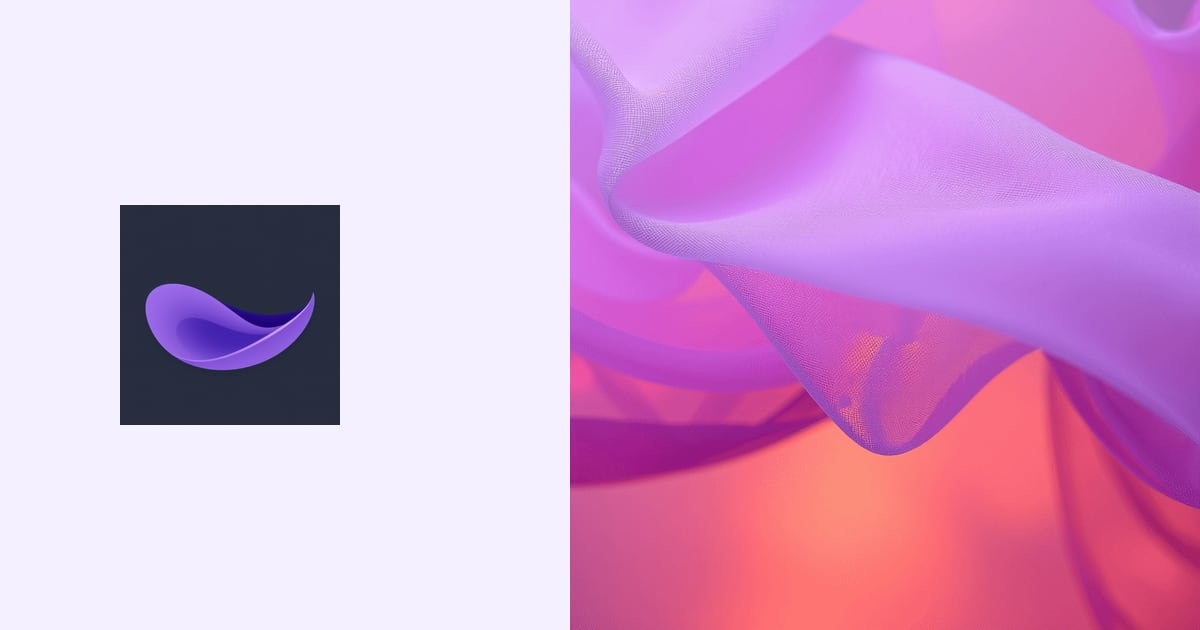
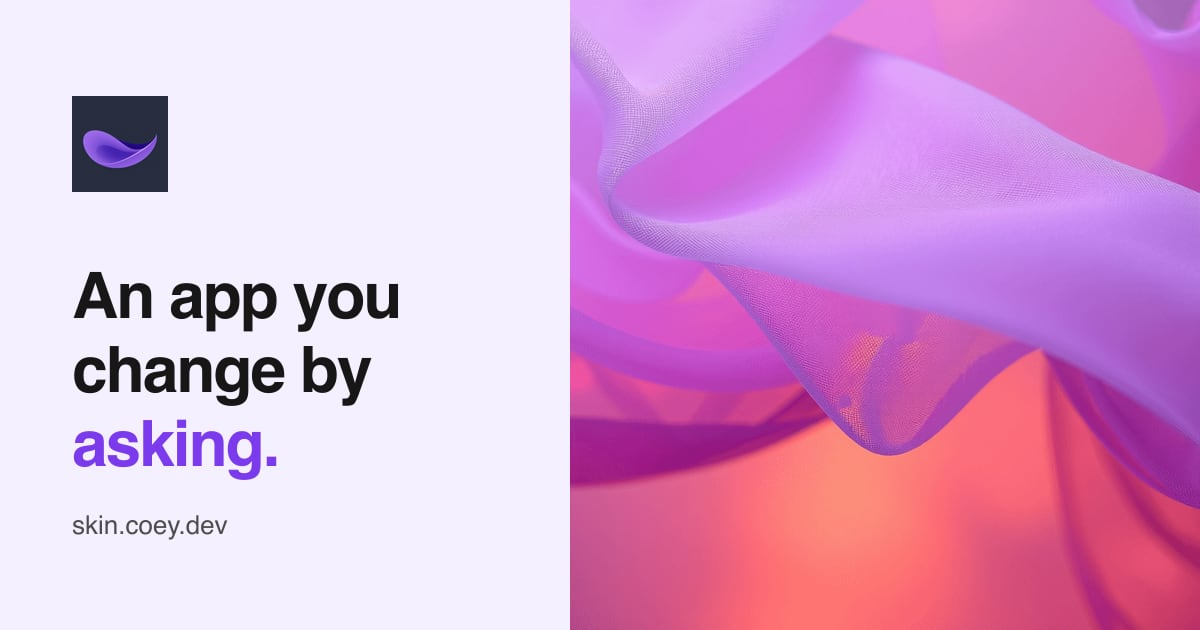
Ready to share: README rewritten; OG card with headline; landing copy reflects per-person routing (Workers AI or your own AI Gateway); one description everywhere

Changed region(s): [[0.0617, 0.1508, 0.3392, 0.7841], [0.0617, 0.8143, 0.185, 0.8444]]

diff --git a/kernel/auth/sign-in-page.ts b/kernel/auth/sign-in-page.ts
@@ -1,5 +1,5 @@
 import { Option } from "effect";
-import { PWA_HEAD, socialHead } from "../pwa";
+import { APP_DESCRIPTION, PWA_HEAD, socialHead } from "../pwa";
 
 const escapeHtml = (value: string) =>
   value
@@ -21,13 +21,13 @@ const POINTS: ReadonlyArray<Point> = [
   },
   {
     title: "Your inference, your account",
-    body: "Every model call runs on Workers AI in the Cloudflare account you pick, under your limits and your logs.",
+    body: "Every model call runs on the Cloudflare account you pick, through Workers AI or one of your own AI Gateways. skin never pays for your tokens, and never sees a provider key.",
   },
 ];
 
 const STEPS: ReadonlyArray<string> = [
   "Pick an account on Cloudflare&rsquo;s consent screen.",
-  "skin runs its agent on that account&rsquo;s Workers AI.",
+  "Choose a model: Workers AI, or Claude and GPT through your own AI Gateway.",
   "Your app and your chats stay yours. Sign out revokes access.",
 ];
 
@@ -41,7 +41,7 @@ export const signInPage = (
 <meta name="viewport" content="width=device-width, initial-scale=1">
 <meta name="color-scheme" content="light dark">
 <title>skin · an app you change by asking</title>
-<meta name="description" content="skin is a personal app with an agent inside. Ask for a change and it rewrites itself, and only goes live if it works.">
+<meta name="description" content="${APP_DESCRIPTION}">
 <meta name="robots" content="index, follow">
 ${socialHead(origin)}
 ${PWA_HEAD}

diff --git a/README.md b/README.md
@@ -2,57 +2,79 @@
 
 # skin
 
-**A web app that every person who signs in grows into their own: each account gets its own agent, which rewrites that person's copy of the app while they use it, and can't brick it. A reference for [Pi Durable](https://github.com/earendil-works/pi/tree/main/packages/durable), [Worker Loader](https://developers.cloudflare.com/workers/runtime-apis/bindings/worker-loader/), [Effect v4](https://effect.website), and [Foldkit](https://foldkit.dev) on Cloudflare.**
+**An app you change by asking.** Sign in with Cloudflare and you get your own copy of a web app with an agent inside. Ask for a change in plain words and the agent rewrites the app while you use it: the UI, the server, even the chat you're typing into. A new version only goes live if it builds, boots, and passes its checks. If it still breaks in your browser, it rolls back on its own.
 
-Self-modifying agents like [bb](https://getbb.app) and [Ouroboros](https://github.com/razzant/ouroboros) evolve one repository on one machine: the tool itself. skin evolves per person. It is a web app behind a login; anyone with a Cloudflare account signs in and gets their own body and their own agent, and every change that agent makes lands only in that person's app. Everyone starts from the same seed and grows apart.
+Try it at [skin.coey.dev](https://skin.coey.dev). It installs as an app on iOS, Android, and desktop.
 
-Self-modifying tools let an agent change the app you are working in. The catch is the failure mode: one bad change and the tool you need to fix it is the thing that's broken. skin splits itself in two. A small **kernel**, deployed once, holds the agent, the generations, and the gate. Everything else, the **body**, is source the agent edits at runtime: the Foldkit UI (including the chat you talk to it through), the server, the styles, and the checks. A change goes live only after the kernel builds it into a new generation inside Cloudflare and it passes the gate. If a generation still crashes in your browser, the kernel rolls it back on its own.
+<img src="kernel/assets/og.jpg" alt="skin: an app you change by asking">
 
-Skin is the part of you that is yours alone, that you can change, and that grows back. Here it is the whole app, not just its look: your agent rewrites the UI, the server, and the chat itself.
+## Why it can't brick itself
+
+An agent that edits the tool you're using has an obvious failure mode: one bad change, and the thing you need to fix it is the thing that's broken. skin splits in two.
+
+- **The kernel** is deployed once and never changes at runtime. It holds sign-in, the agent, every version, the gate, and rollback.
+- **The body** is everything else: the [Foldkit](https://foldkit.dev) UI, the server, the Tailwind styles, and the body's own checks. This is the source the agent edits.
+
+The agent can rewrite the body as much as it likes. It can't touch the kernel, so there is always a working way back.
 
 ## What happens when you ask for a change
 
 ```
-you ─▶ chat (part of the body) ─▶ Agent DO (Pi Durable) ─▶ write_file / ship
-                                                              │
-                     Body DO: draft ─▶ Builder DO: worker-bundler + Tailwind ─▶ generation N
-                                                              │
-               gate: bundle ▸ boot the server in a Worker Loader isolate ▸ run src/checks.ts ▸ page
-                                                              │
-                        pass ─▶ N is live (one pointer)      fail ─▶ rejected, N-1 stays live
-                                                              │
-               browser: crash guard ─▶ started? boots += 1 : crashed before start ─▶ roll back to N-1
+you ─▶ chat ─▶ agent (Pi Durable) ─▶ write_file … ship
+                                          │
+                 draft ─▶ build: bundle server + client, compile Tailwind ─▶ version N
+                                          │
+           gate: boot the server in its own isolate ▸ run the body's checks ▸ render the page
+                                          │
+                pass ─▶ N is live          fail ─▶ N is rejected, N-1 stays live
+                                          │
+           in your browser: N crashes before it starts ─▶ the kernel puts N-1 back
 ```
 
-1. The agent edits the **draft**: files in the Body Durable Object's SQLite, content-addressed. Nothing is live yet.
-2. `ship` freezes the draft as generation N and hands it to a Builder Durable Object, which installs `package.json` from npm and bundles the server and client with [`@cloudflare/worker-bundler`](https://www.npmjs.com/package/@cloudflare/worker-bundler) (esbuild-wasm), then compiles Tailwind v4 in the isolate.
-3. The gate loads N's server into its own Worker Loader isolate (no network, no secrets, only `env.STORE`), calls `/_body/health`, and runs the body's own checks at `/_body/checks`. These are the same Foldkit story tests CI runs.
-4. If every check passes, N goes live by moving one pointer. If any fails, N is rejected and the agent gets the errors.
-5. Every page carries a kernel-owned crash guard. If N renders, it reports a boot. If N crashes before it ever started, the kernel makes the last good generation live again.
+1. The agent edits a draft. Nothing is live yet.
+2. `ship` freezes the draft as version N. Builder Durable Objects install its `package.json` from npm, bundle the server and the client with [`@cloudflare/worker-bundler`](https://www.npmjs.com/package/@cloudflare/worker-bundler), and compile Tailwind v4. Each half builds in its own isolate.
+3. The gate loads N's server into a [Worker Loader](https://developers.cloudflare.com/workers/runtime-apis/bindings/worker-loader/) isolate with no network and no secrets, checks it starts, and runs the body's own story tests.
+4. If everything passes, N goes live by moving one pointer. If anything fails, N is rejected and the agent gets the errors to fix.
+5. Every page carries a crash guard. If N crashes in your browser before it ever started, the kernel makes the last good version live again.
 
-Rollback to any generation that passed the gate is instant, from the chat, the kernel console at `/_kernel/`, or the agent. It also resets the draft to match. Data the server keeps in `env.STORE` survives every generation and every rollback.
+Any version that passed the gate is one click away, from the chat, the Versions panel, or the agent. Data the app stores survives every version and every rollback. The agent survives being killed mid-task: each model turn and tool result is committed before the next one, and shipping the same files twice returns the first result instead of a second version.
 
-The agent survives being killed. Pi Durable commits each model turn and tool result to SQLite, and every tool, `ship` included, is safe to replay: shipping the same files again returns the earlier result instead of a second generation.
+## Who pays for the model
+
+The person signed in, always. In **Model settings** you pick one of the Cloudflare accounts you allowed, then a route:
+
+- **Workers AI**, on that account, with your token.
+- **One of your own AI Gateways** (authentication on), with your token. Use this for Claude and GPT.
+
+Before each call skin strips any credential headers, then adds your token for the account you chose. The Worker has no AI binding and no gateway of its own, so it cannot run a model on the deployer's bill, and it never holds a provider key. A chat with nobody signed in makes no model call.
 
 ## Proof
 
-`npm run e2e` drives a real instance through eight changes, good and broken, in a real browser, and writes `receipts/e2e-<target>.json`. Against `wrangler dev` (receipt `receipts/e2e-local.json`):
+`npm run e2e` drives a real instance through ten changes, good and broken, in a real browser, and writes a receipt to `receipts/`. The latest local run:
 
 ```
-pass  the seed grows into a live generation that starts in a real browser (23575 ms)
-pass  a change that does not bundle is rejected and the live app is untouched (84 ms)
-pass  a server that throws when it starts is rejected (14133 ms)
-pass  a change that breaks a behavior the checks cover is rejected (14230 ms)
-pass  data the server stores survives a new generation and a rollback (10 ms)
-pass  a good change goes live and renders in the browser (20510 ms)
-pass  a page that crashes in the browser is rolled back by the kernel on its own (14517 ms)
-pass  rolling back makes the seed live again and resets the draft to match (38 ms)
-pass  another person gets their own app, untouched by everything above (14029 ms)
+pass  the seed grows into a live generation that starts in a real browser
+pass  a change that does not bundle is rejected and the live app is untouched
+pass  a server that throws when it starts is rejected
+pass  a change that breaks a behavior the checks cover is rejected
+pass  data the server stores survives a new generation and a rollback
+pass  a version interrupted mid-build by a kill never sticks, and shipping again makes it live
+pass  a good change goes live and renders in the browser
+pass  a page that crashes in the browser is rolled back by the kernel on its own
+pass  rolling back makes the seed live again and resets the draft to match
+pass  another person gets their own app, untouched by everything above
 
-9/9 scenarios passed in 100 s
+10/10 passed in 141 s
 ```
 
-`npm run check` also runs the agent itself, with Pi's fake model, inside workerd: it is killed three times with `ctx.abort()` while it works, comes back each time, and ships exactly one generation ([`test/revival/`](test/revival)).
+Every deploy runs `scripts/prod-smoke.mjs` against production and rolls the Worker back if any step fails. It checks four things:
+
+- a new visitor can start sign-in;
+- an anonymous caller is refused;
+- a fresh build goes live;
+- a real chat reply comes back from the signed-in person's own account.
+
+`npm run check` adds type checks, lint, and 64 tests, one of which kills the agent three times inside workerd and checks it comes back and ships exactly once. `npm run audit:pwa` checks the install assets and SEO basics against a live URL. Chat is held to [Basic](https://github.com/acoyfellow/basic), the conformance suite for agent chat.
 
 ## Run it locally
 
@@ -60,57 +82,46 @@ You need Node 22.19 or newer.
 
 ```sh
 npm install
-npx playwright install chromium   # for the e2e run
-bash test/local/run.sh            # http://localhost:8790, loopback dev identity, no model calls
+npx playwright install chromium
+bash test/local/run.sh                # http://localhost:8790
 BASE=http://localhost:8790 npm run e2e
 ```
 
-`test/local/wrangler.jsonc` is the real kernel with a loopback-only dev identity (`X-Dev-User`), so everything but the chat works offline. The dev identity has no Cloudflare account, so chat answers "Sign in with Cloudflare first". The first request grows generation 1 from the seed (about 20 s).
+The local kernel uses a loopback-only dev identity, so building, the gate, and rollback all work offline. Chat needs a Cloudflare sign-in, so it answers "Sign in with Cloudflare first". The first page load grows version 1 from the seed in about 20 seconds.
 
-## Deploy
+## Deploy your own
 
-skin has one sign-in: Sign in with Cloudflare. Each person signs in on Cloudflare's consent screen and picks the accounts skin may use. **The signed-in person always pays for their own model calls.** In `/settings` they pick one of those accounts, a route, and a model:
+You need a Cloudflare account with Worker Loader enabled and a hostname on a zone you control. There is no `workers.dev` or preview URL.
 
-- **Workers AI, direct**: `api.cloudflare.com/client/v4/accounts/<their account>/ai/v1`, sent with `Authorization: Bearer <their token>`.
-- **One of their own AI Gateways** (authentication on): `gateway.ai.cloudflare.com/v1/<their account>/<their gateway>/<anthropic|openai|compat>`, sent with `cf-aig-authorization: Bearer <their token>`. This route is needed for Claude and GPT.
+1. Create an OAuth client in the dashboard (Manage Account → OAuth clients): response type `code`, grants `authorization_code` and `refresh_token`, redirect URI `https://<host>/oauth/callback`, scopes `offline_access user-details.read account-settings.read ai.read ai.write aig.read aig.run`.
+2. Copy `deploy/coey.env` and set `SKIN_HOST`, `OAUTH_CLIENT_ID`, and `SKIN_ZONE` if the zone has no custom-domain slots left.
+3. Set two Worker secrets, `OAUTH_CLIENT_SECRET` and `SESSION_SECRET` (32 characters or more), with `npx wrangler secret put`.
+4. Run `set -a; . deploy/<yours>.env; set +a; npm run deploy`.
 
-Every call strips `authorization`, `cf-aig-authorization` and `x-api-key`, then adds that person's token. The token is refreshed when it is close to expiring. The Worker has no AI binding and no gateway of its own, so it cannot run a model on the deployer's account. A conversation with no signed-in owner gets "Sign in with Cloudflare first" and no model call is made.
+Deploys need a signed-in session cookie for the smoke test, in `SMOKE_SESSION` or `.debug/session.txt`. Pass `--skip-smoke` to deploy without it.
 
-There is no `workers.dev` or preview URL. Worker Loader must be enabled on the account.
+## What it does not do
 
-1. Create an OAuth client: response type `code`, grant types `authorization_code` and `refresh_token`, redirect URI `https://<host>/oauth/callback`, scopes `offline_access user-details.read account-settings.read ai.read ai.write aig.read aig.run`.
-2. Fill in `deploy/coey.env` (or your own copy) with `SKIN_HOST`, `OAUTH_CLIENT_ID`, and `SKIN_ZONE` if the zone has no custom-domain slots left.
-3. Set the two Worker secrets: `npx wrangler secret put OAUTH_CLIENT_SECRET` and `npx wrangler secret put SESSION_SECRET` (32 characters or more).
-4. Deploy: `set -a; . deploy/coey.env; set +a; npm run deploy`. The deploy runs `scripts/prod-smoke.mjs` against the new version and rolls back if it fails.
+- **The agent can't change the kernel.** Sign-in, the gate, rollback, the crash guard, and the service worker are fixed at deploy. The body's copy of the kernel protocol is replaced on every build.
+- **Versions aren't type-checked.** The gate is bundle, boot, checks, and page. A type error that still runs gets through.
+- **Crashes after start aren't rolled back automatically.** A version that started once and breaks later shows a banner and stays live until you or the agent roll back.
+- **Body code has no network and no secrets.** Versions run with `globalOutbound: null`. The only binding is a key-value store.
+- **Apps aren't shared.** Each person has their own app, agent, versions, and data. There's no way yet to fork someone else's.
+- **Model usage isn't capped by skin.** Builds are limited to one at a time and 30 an hour per person. Model usage is limited only by your own account.
 
-The smoke test runs headless with a signed-in session cookie (`SMOKE_SESSION`, or `.debug/session.txt`). It checks that an anonymous caller is refused, that a fresh build goes live, that a model call goes to the signed-in person's own account, and that a real chat reply comes back.
-
-Chat in every instance is held to [Basic](https://github.com/acoyfellow/basic), the conformance suite for agent chat. Run `BASE=https://<host> npm run basic` to check the floor.
-
-## What it deliberately does not do
-
-- **It does not let the agent change the kernel.** Sign-in, the gate, rollback, the crash guard, the service worker, and the console are fixed at deploy. `src/kernel/protocol.ts` in the body is replaced on every build, so the agent cannot break the contract with the kernel.
-- **It does not typecheck generations.** esbuild strips types; the gate is bundle, boot, checks, and page. A type error that still runs gets through.
-- **It does not roll back crashes after start.** A generation that started once and crashes later is reported to the guard and shown in a banner, but stays live until you or the agent roll back.
-- **It does not give body code the network or any secret.** Generations run with `globalOutbound: null`. The only binding is `STORE`.
-- **It does not share generations between people.** Each signed-in identity has its own Body, agents, generations, and `STORE`, keyed by a hash of the Cloudflare user id. Nothing crosses between them; there is no way yet to fork someone else's app.
-- **It does not meter the model per person.** Builds are limited per person (one at a time, 30 an hour); Workers AI usage is not yet.
-
-## Where to edit behavior
+## Where things live
 
 | Path | What it does |
 | --- | --- |
-| `kernel/body.ts` | The Body DO: draft, generations, the gate, promote, rollback, crash reports, serving |
-| `kernel/build.ts` | How a generation is built: bundle, Tailwind, the page the kernel wraps around it |
-| `kernel/harness.ts` | The agent's prompt and tools, on Pi Durable |
-| `kernel/shell.ts` | The crash guard, service worker, manifest, and kernel console |
-| `kernel/index.ts`, `kernel/auth/` | Sign in with Cloudflare, per-user model routing, routes, the owner API under `/_kernel/api/` |
-| `body/` | The seed: the first generation. After that, the agent owns it. `body/AGENTS.md` is its guide |
+| `kernel/body.ts` | Drafts, versions, the gate, rollback, crash reports, serving |
+| `kernel/build.ts`, `kernel/builder.ts` | Building a version: bundle, Tailwind, the page around it |
+| `kernel/harness.ts` | The agent's prompt and tools, on [Pi Durable](https://github.com/earendil-works/pi/tree/main/packages/durable) |
+| `kernel/auth/` | Sign in with Cloudflare, model settings, per-person model routing |
+| `kernel/pwa.ts`, `kernel/shell.ts` | Install assets, SEO, the crash guard, the service worker |
+| `body/` | The seed every app starts from. After that, each person's agent owns their copy. `body/AGENTS.md` is its guide |
 | `shared/protocol.ts` | Schemas for everything that crosses a boundary |
 
-## What this makes possible next
-
-The gate is the product. Because every generation is a stored, replayable artifact with a machine-readable report, the same loop can run unattended: a scheduled job can ask for a change, ship it, and keep it only if its own eval improves, with every attempt, rejected or not, kept as evidence.
+Built with [Effect v4](https://effect.website), Foldkit, Pi Durable, and Durable Objects on Cloudflare Workers.
 
 ## License
 
